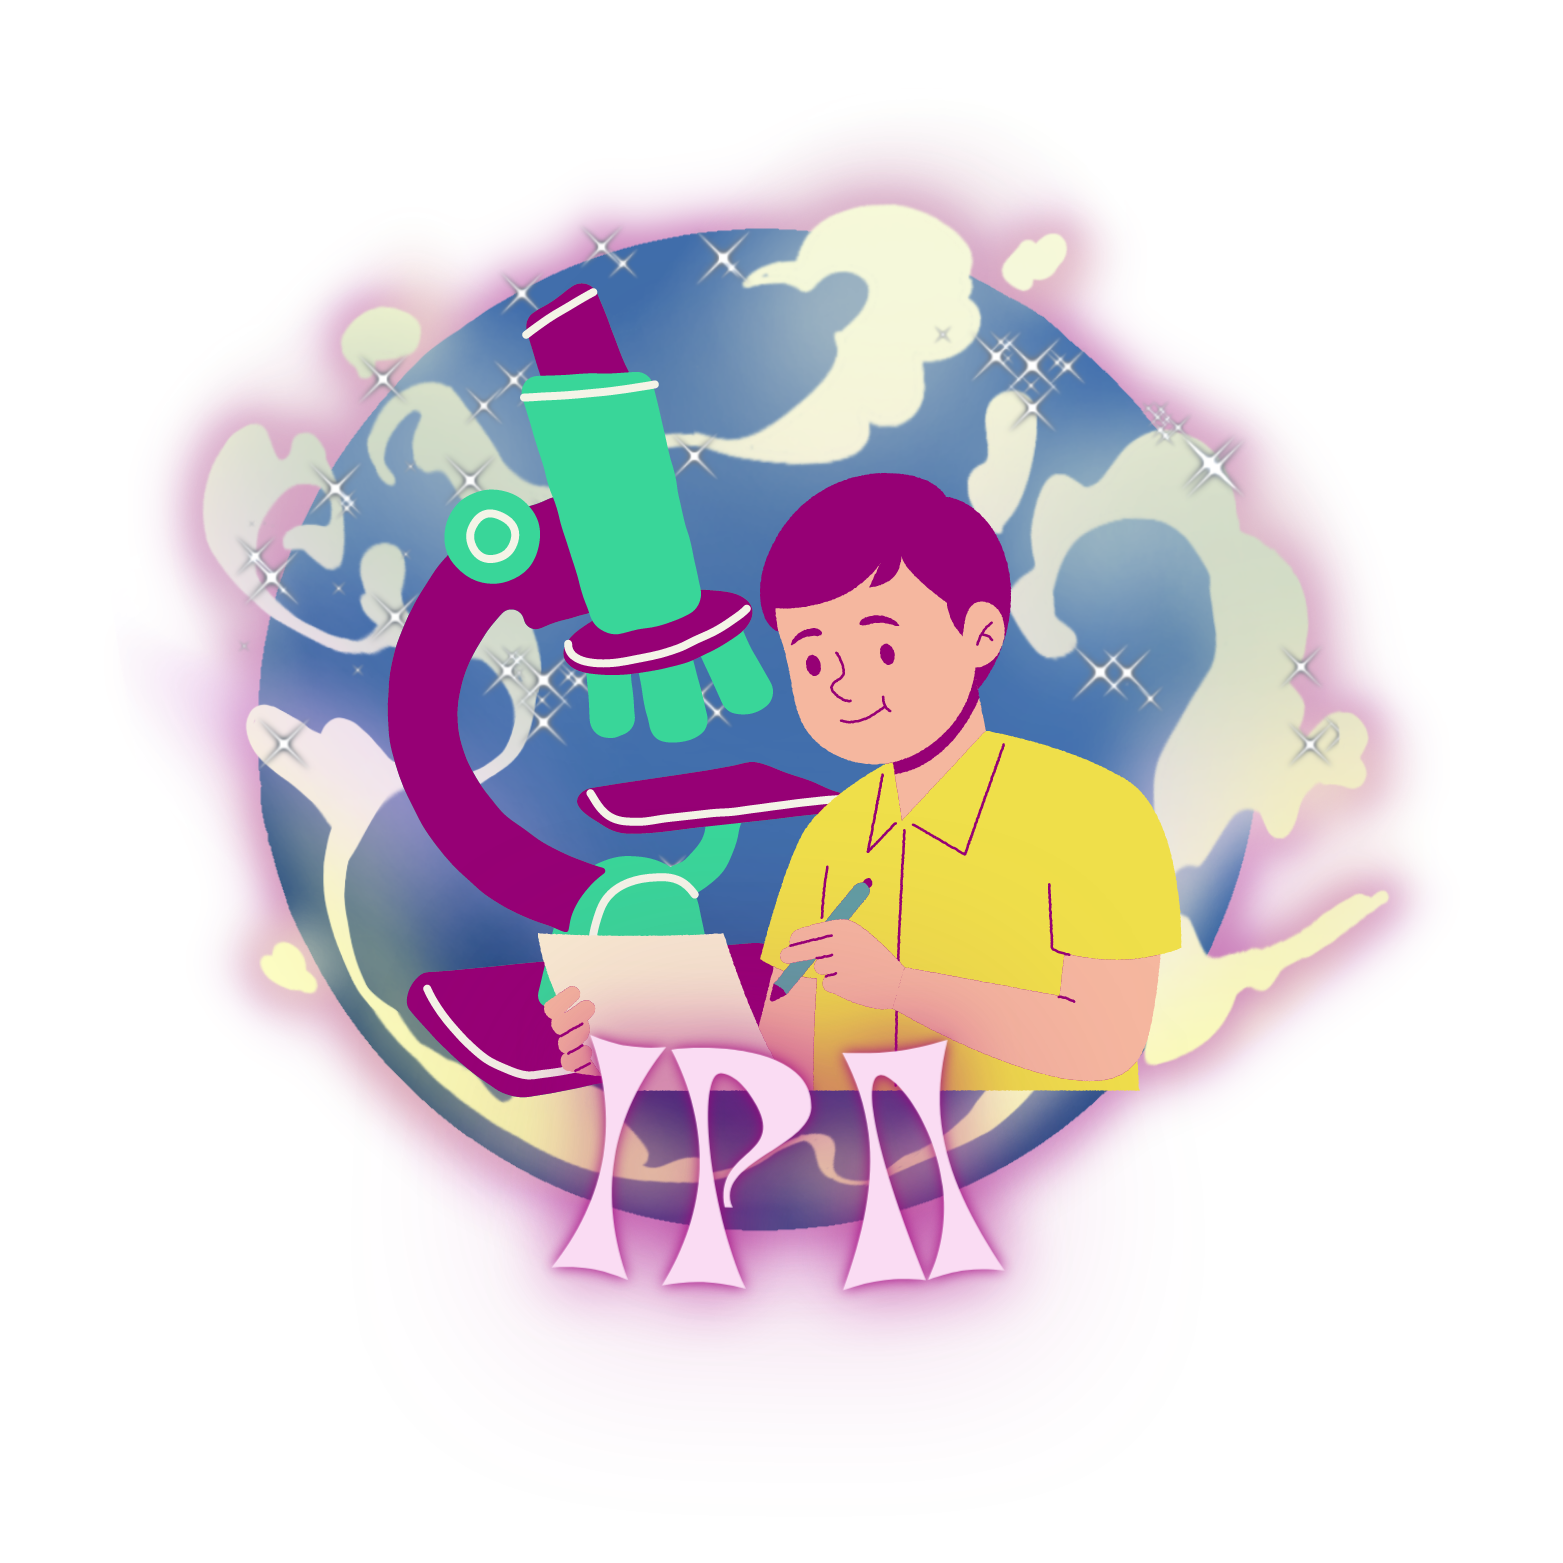
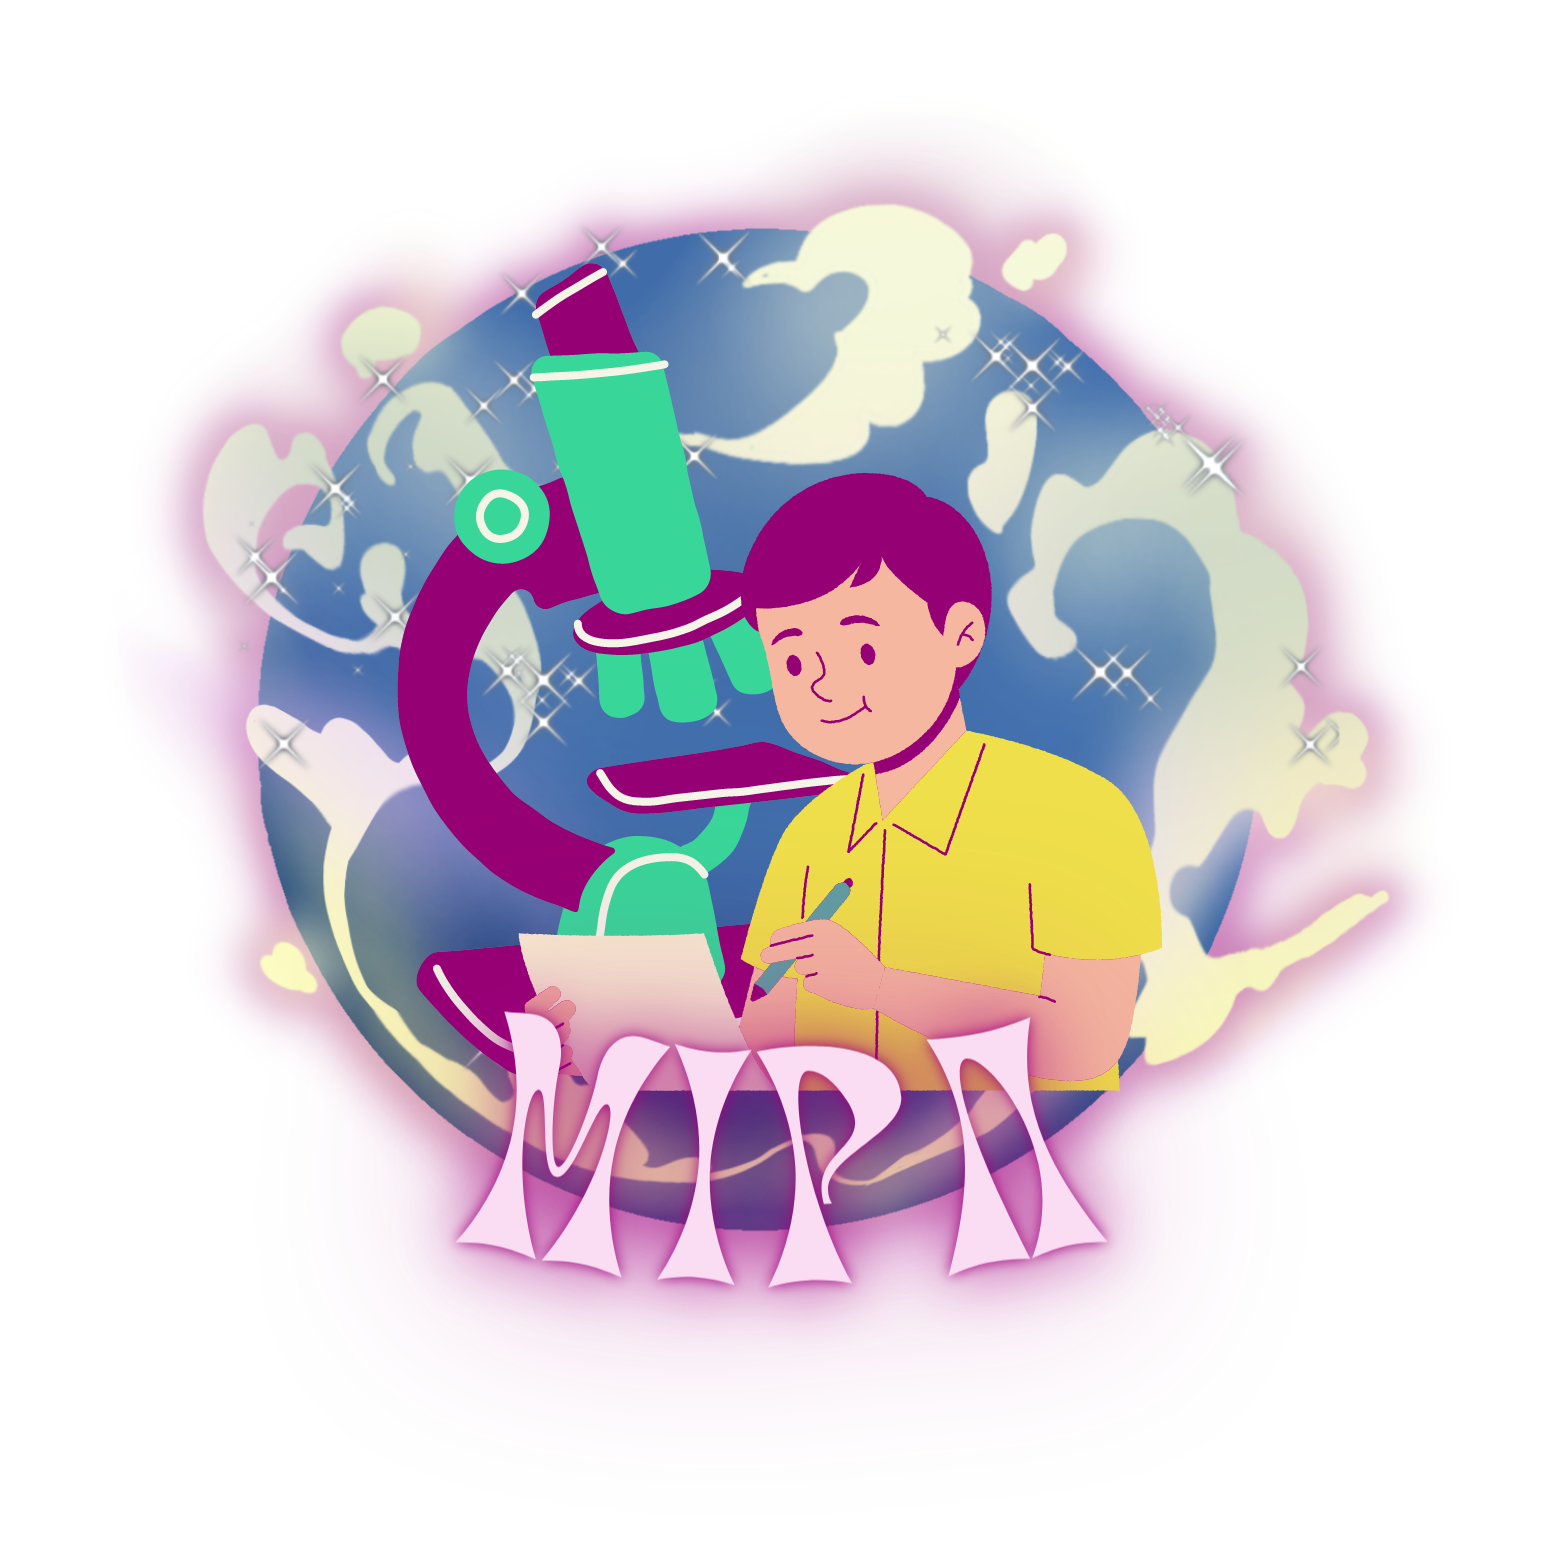
fix lensa
penambahan deskri[si fotografi dan presenter, serta penggantian logo

diff --git a/html/Lensa.html b/html/Lensa.html
@@ -59,18 +59,21 @@
     <!-- Presenter -->
     <div data-aos="fade-up" data-aos-duration="1000">
         <div class="about" id="about">
-          <img src="../image/Icon Presenter.png" alt="" width="310px" height="310px">
+          <img src="../image/Presenter.png" alt="" width="310px" height="310px">
           <div>
             <h2 style="color: #75FFEE;">Presenter</h2>
-            <p style="color: white;">Futsal competition adalah ajang pembuktian bagi pelajar tingkat SMP dan SMA<br> dalam bidang futsal. Bertujuan untuk pemain berbakat dalam bidang futsal<br>menunjukan kemampuannya dan mengadu strategi terbaik, yang dipertemukan dalam<br>satu wadah yaitu Smanisda Cup Aetheria 2023.<br><br>
+            <p style="color: white;">Lomba Presenter merupakan lomba yang dapat mengasah keahlian<br>dalam membawakan suatu berita.
+              Lomba ini diperuntukan bagi<br>para peserta dengan rentang usia antara 15-23 tahun dan memiliki tujuan<br>untuk membuka jalan
+              bagi peserta yang ingin menunjukkan kemampuannya<br>di bidang Presenter yang dipertemukan dalam satu wadah yaitu
+              LENSA 2023<br><br>
               <span style="font-size: 25px;">Selengkapnya Hubungi</span><br>
               <span style="color: white;">Jovani (088803101194)</span><br>
               <span style="color: white;">ID Line (gardeniw)</span>
             </p>
           <div data-aos="fade-up" data-aos-duration="1500">
             <div class="button text-center mt-5">
-              <button type="button" class="btn btn-info" style="margin-right: 15px"><a href="" style="text-decoration: none; color: black">Daftar</a></button>
-              <button type="button" class="btn btn-info"><a href="../REGULASI/JUKNIS LOMBA LENSA PRESENTER.pdf" style="text-decoration: none; color: black" download>Download Juknis</a></button>
+              <button type="button" class="btn btn-info" style="margin-right: 15px"><a href=""style="text-decoration: none; color: black">Daftar</a></button>
+              <button type="button" class="btn btn-info"><a href="../REGULASI/JUKNIS LOMBA  stLENSA PRESENTER.pdf" style="text-decoration: none; color: black" download>Download Juknis</a></button>
             </div>
             </div>
           </div>
@@ -80,7 +83,7 @@
     <!-- Poster Manual -->
     <div data-aos="fade-up" data-aos-duration="1000">
         <div class="about-reverse" id="about">
-          <img src="../image/Poster Manual .png" alt="" width="310px" height="310px">
+          <img src="../image/Poster.png" alt="" width="310px" height="310px">
           <div>
             <h2 style="color: #75FFEE;">Poster Manual</h2>
             <p style="color: white;">Basket competition adalah ajang pembuktian bagi pelajar tingkat SMA<br>dalam bidang basket. Bertujuan untuk menampilkan bakat dan mengasah kemampuan<br>dalam bermain basket yang dipertemukan dalam satu wadah yaitu Smanisda Cup Aetheria 2023.<br><br>
@@ -101,10 +104,13 @@
     <!-- Fotografi -->
     <div data-aos="fade-up" data-aos-duration="1000">
         <div class="about" id="about">
-          <img src="../image/Fotografi .png" alt="" width="310px" height="310px">
+          <img src="../image/Fotografi.png" alt="" width="310px" height="310px">
           <div>
             <h2 style="color: #75FFEE;">Fotografi</h2>
-            <p style="color: white;">Futsal competition adalah ajang pembuktian bagi pelajar tingkat SMP dan SMA<br> dalam bidang futsal. Bertujuan untuk pemain berbakat dalam bidang futsal<br>menunjukan kemampuannya dan mengadu strategi terbaik, yang dipertemukan dalam<br>satu wadah yaitu Smanisda Cup Aetheria 2023.<br><br>
+            <p style="color: white;">Lomba Fotografi merupakan lomba yang dapat mengasah keahlian<br>dalam bidang Fotografi. Lomba ini diperuntukan 
+              bagi para peserta<br>rentang usia antara 15-23 tahun dan memiliki tujuan untuk membuka jalan<br>
+              bagi peserta yang ingin menunjukkan kemampuannya di bidang Fotografi yang<br>dipertemukan dalam satu wadah yaitu
+              LENSA 2023<br><br>
               <span style="font-size: 25px;">Selengkapnya Hubungi</span><br>
               <span style="color: white;">Tiara (081234101233)</span><br>
               <span style="color: white;">ID Line (ttiariao)</span>
@@ -122,7 +128,7 @@
     <!-- Komik Strip -->
     <div data-aos="fade-up" data-aos-duration="1000">
         <div class="about-reverse" id="about">
-          <img src="../image/Komik Strip .png" alt="" width="310px" height="310px">
+          <img src="../image/Komik.png" alt="" width="310px" height="310px">
           <div>
             <h2 style="color: #75FFEE;">Komik Strip</h2>
             <p style="color: white;">Basket competition adalah ajang pembuktian bagi pelajar tingkat SMA<br>dalam bidang basket. Bertujuan untuk menampilkan bakat dan mengasah kemampuan<br>dalam bermain basket yang dipertemukan dalam satu wadah yaitu Smanisda Cup Aetheria 2023.<br><br>

diff --git a/html/index.html b/html/index.html
@@ -62,19 +62,19 @@
           <div class="carousel-item active">
             <img src="../image/Latar 1.png" class="d-block w-100" alt="..." style="width: 1000px; height: 620px; filter: brightness(50%);">
             <div class="carousel-caption d-none d-md-block">
-              <h3>ExTraordinary Highshool Revolution</h5>
+              <h1>ExTraordinary Highshool Revolution</h5>
             </div>
           </div>
           <div class="carousel-item">
             <img src="../image/Latar 2.png" class="d-block w-100" alt="..." style="width: 1000px; height: 620px; filter: brightness(50%);">
             <div class="carousel-caption d-none d-md-block">
-              <h3>With Euphoria</h3>
+              <h1>With Euphoria</h1>
             </div>
           </div>
           <div class="carousel-item">
             <img src="../image/Latar 3.png" class="d-block w-100" alt="..." style="width: 1000px; height: 620px; filter: brightness(50%);">
             <div class="carousel-caption d-none d-md-block">
-              <h3>Of Smanisda</h3>
+              <h1>Of Smanisda</h2>
             </div>
           </div>
         </div>
@@ -129,12 +129,12 @@
       <h4 data-aos="fade-up" data-aos-duration="1000">Kategori Lomba</h4>
       <div class="row2" data-aos="fade-up" data-aos-duration="1000">
         <a href="olimpiade.html"><img src="../image/Olimpiade.png" alt=""></a>
-        <a href=""><img src="../image/Lensa.png" alt=""></a>
-        <a href=""><img src="../image/Sport.png" alt=""></a>
+        <a href="Lensa.html"><img src="../image/Lensa.png" alt=""></a>
+        <a href="Sport.html"><img src="../image/Sport.png" alt=""></a>
       </div>
       <div class="row3" data-aos="fade-up" data-aos-duration="1000">
         <a href="supporter.html"><img src="../image/Supporter.png" alt=""></a>
-        <a href=""><img src="../image/music.png" alt=""></a>
+        <a href="music.html"><img src="../image/music.png" alt=""></a>
         <a href="dance.html"><img src="../image/Dance.png" alt=""></a>       
       </div>
       <hr class="border border-light" style="margin-left: 50px; margin-bottom: 60px;">
